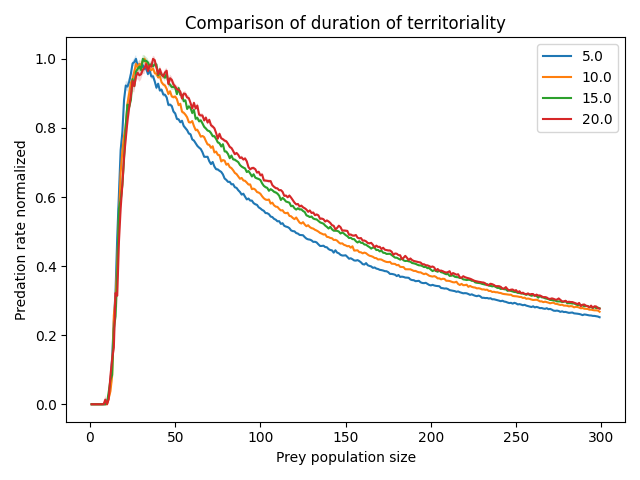
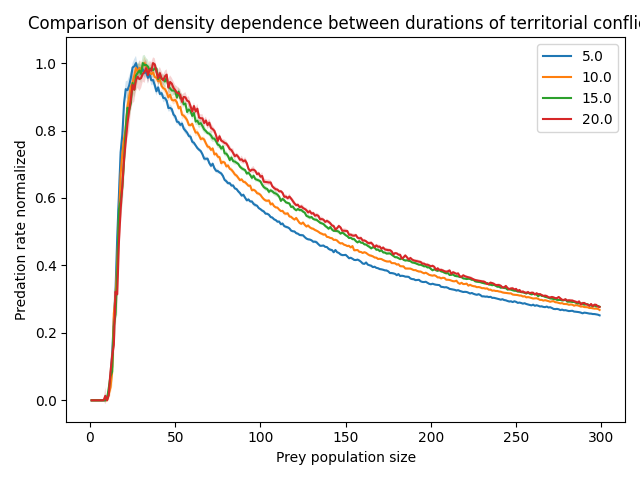
updated graphs

diff --git a/Visual Studio Project/Plotting/plotter_lines_pooled_special.py b/Visual Studio Project/Plotting/plotter_lines_pooled_special.py
@@ -3,11 +3,11 @@ import matplotlib.pyplot as plt
 import numpy as np
 import scipy.stats as stats
 
-path = ".\\plots/exp"
+path = "./plots"
 
 plots = [ #dependent, axis name, split, infile, title, outfile
-    ["predation rate", "Predation rate normalized", "predator territorial range", "predator_territorial.csv", "Comparison of inverse density dependence", "territorial_ranges_experiment_PR_normal.png"],
-    ["predation rate", "Predation rate normalized", "predator scared frames", "scared_frames.csv", "Comparison of duration of territoriality", "scared_frames_experiment_PR_normal.png"],
+    ["predation rate", "Predation rate normalized", "predator territorial range", "predator_territorial.csv", "Comparison of density dependence between $territorial\_range$s", "territorial_ranges_experiment_PR_normal.png"],
+    ["predation rate", "Predation rate normalized", "predator scared frames", "scared_frames.csv", "Comparison of density dependence between $territorial\_duration$s", "scared_frames_experiment_PR_normal.png"],
 ]
 
 for plot in plots:
@@ -59,10 +59,10 @@ for plot in plots:
         labels.append(values_i)
         for creater in values:
             l_xpoints_ls[-1].append(creater)
-            # put average in ypoints and standard error in error
+            # put average in ypoints and 95% confidence interval in errors
             l_ypoints_ls[-1].append(np.mean(values[creater]))
             if l_ypoints_ls[-1][-1] > l_highest[-1]: l_highest[-1] = l_ypoints_ls[-1][-1]
-            l_error_ls[-1].append(stats.sem(values[creater]))
+            l_error_ls[-1].append(np.std(values[creater])*1.96/np.sqrt(len(values[creater])))
 
     minx = 10**10
     maxx = 0
@@ -82,10 +82,10 @@ for plot in plots:
 
 
         # plot x/y
-        plt.errorbar(x, y, label=tlabel)
+        plt.plot(x, y, label=tlabel, linewidth=1)
 
         # shade error
-        plt.fill_between(x, y-error, y+error, alpha=0.2)
+        plt.fill_between(x, y-error, y+error, alpha=0.4)
 
 
 

diff --git a/Visual Studio Project/Plotting/plotter_lines_pooled.py b/Visual Studio Project/Plotting/plotter_lines_pooled.py
@@ -120,10 +120,10 @@ for plot in plots:
         low_error = np.array(low_error)
         high_error = np.array(high_error)
 
-        plt.plot(x, y, "-", label=tlabel)
+        plt.plot(x, y, "-", label=tlabel, linewidth=1)
 
         #plot error around with fill_between
-        plt.fill_between(x, low_error, high_error, alpha=0.2)
+        plt.fill_between(x, low_error, high_error, alpha=0.4)
 
         """yhat = savitzky_golay(y, 51, 3) # window size 51, polynomial order 3
         yhat = np.maximum(yhat, 0)
